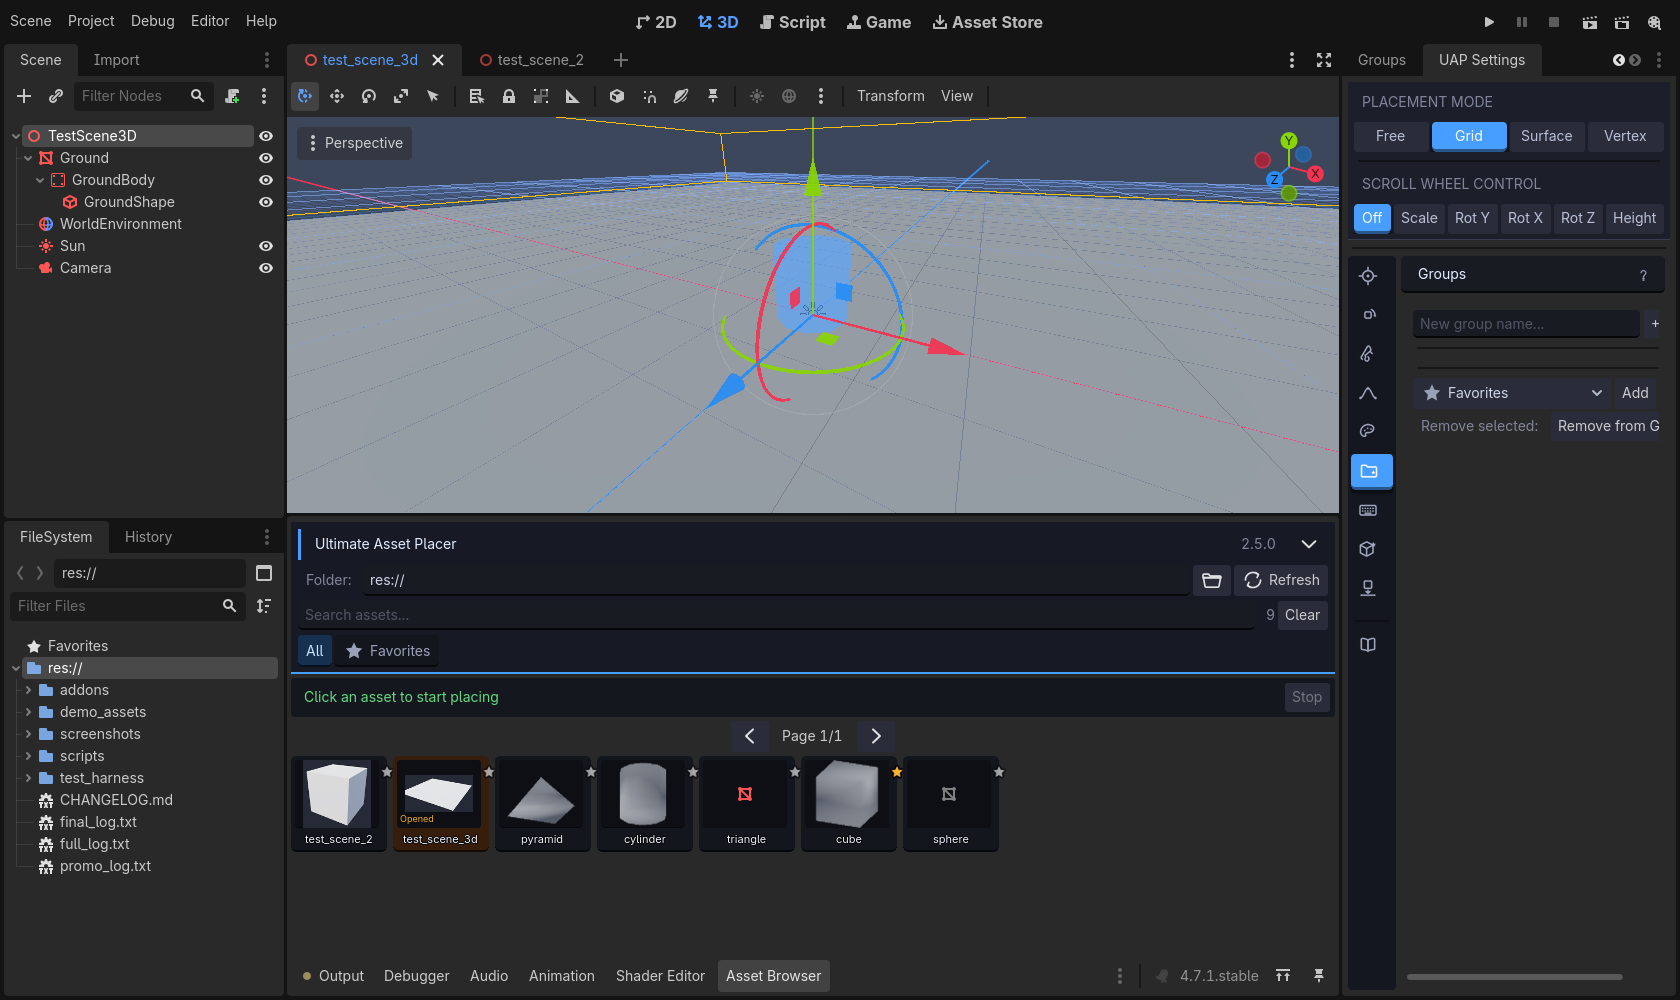
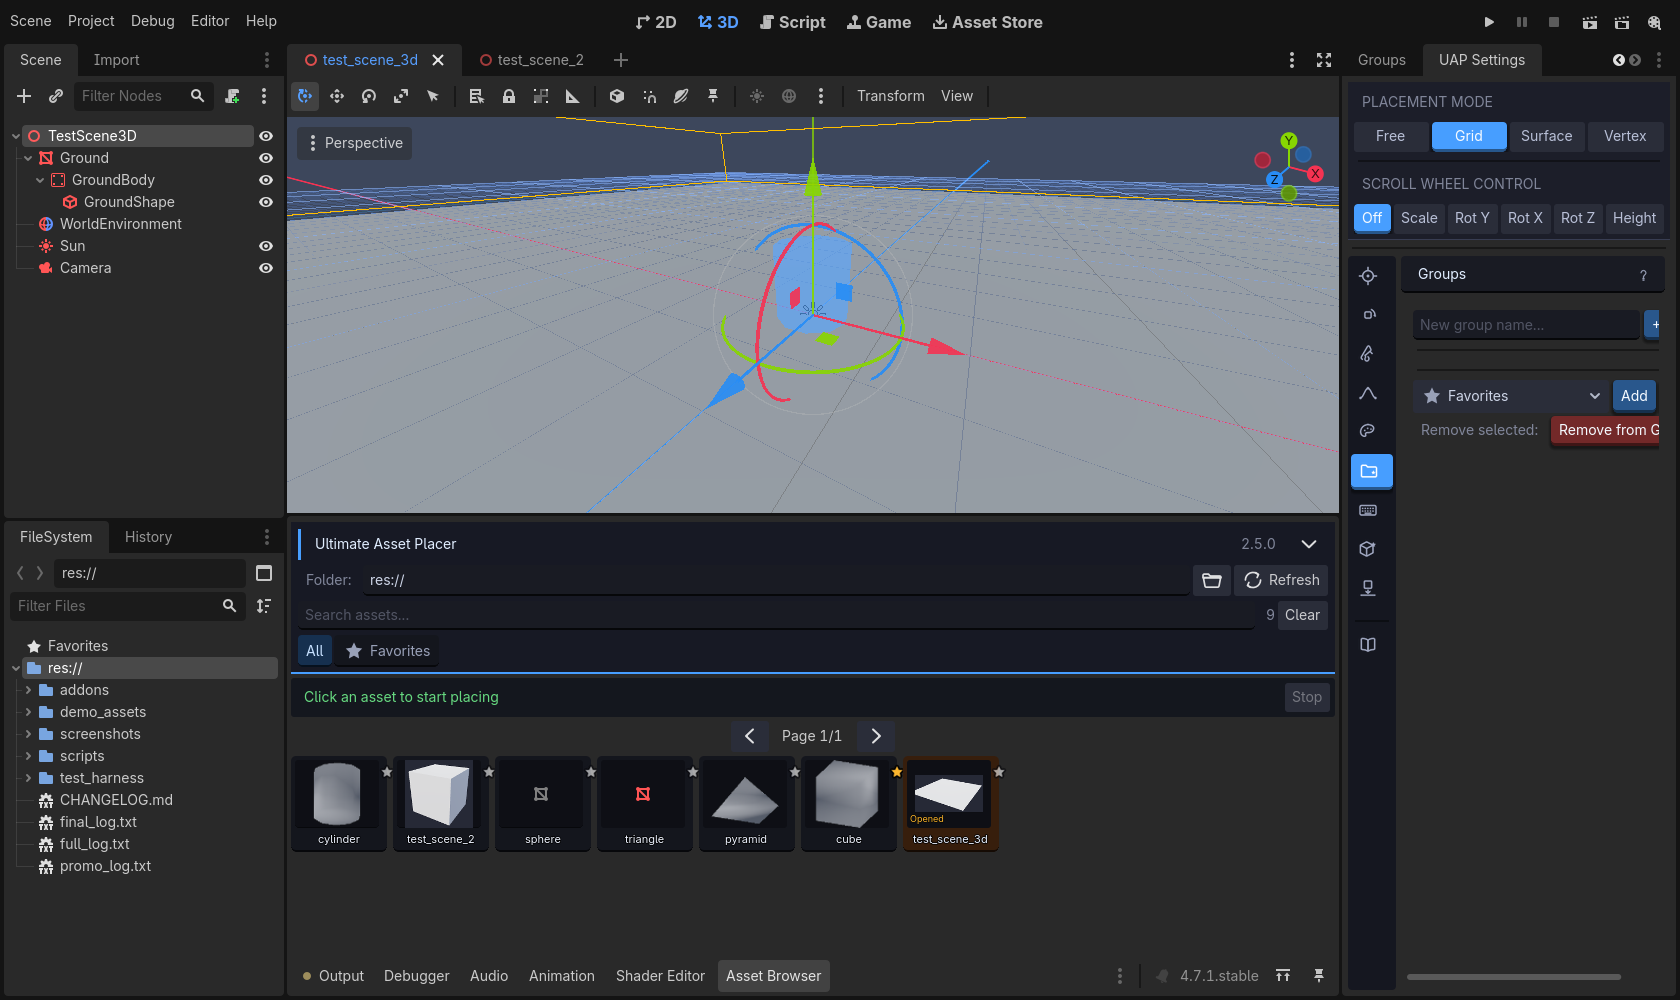
Ultimate Asset Placer v2.5.0 rev 3 — raised 3D faces scoped to standalone panel actions only; in-group buttons restored to idle; Create New Spline pulled out of the group above Exit Spline Mode; Groups-tab action cluster raised (+ Add / Add / folder / Remove from Group); README/CHANGELOG + fresh scr

diff --git a/README.md b/README.md
@@ -55,23 +55,29 @@ drag-and-drop / auto-shape hints) are gone — every tab has the **(i)** help
 button and the Docs window now, so the controls moved back up where you can
 reach them.
 
-### Every action button now reads as a button
-Start Physics was only the first fix. **Every standalone action button** —
-Create New Spline, Use Selected Spline, Smooth, Sharpen, Drop to Ground, Wrap
-Points to Terrain, the bake buttons, Lift Selected Up, Reset X Y Z, Reset All
-to Defaults, Create Asset Zoo, the MultiMesh tools… — now wears a **raised 3D
-face** so nothing melts into the panel anymore. One face color per meaning:
-steel blue for standard actions, dark red for destructive ones (Delete Active
-Spline, Clear All MultiMesh Instances), dark green for the finalize bake, and
-amber for Stop while a simulation runs.
+### Standalone action buttons now read as buttons
+The button fix now follows one precise rule: a button wears the **raised 3D
+face** only when it sits **directly on the panel** — not inside any group
+section — and would otherwise melt into the background. That covers Start
+Physics (and its Stop / Cancel companions), **+ Create New Spline**, Exit
+Spline Mode, Reset All to Defaults, and the Groups-tab action cluster:
+**+ Add**, **Add**, the folder-import button, and **Remove from Group**,
+which now carries a dark-red destructive face with white text. Steel blue is
+the standard action color, dark red marks destructive actions, and amber
+marks Stop while a simulation runs.
 
-On the Spline tab the buttons were also reordered: **+ Create New Spline now
-sits above Exit Spline Mode** (exit used to be the very first control at the
-top of the tab, which read backwards).
+**Buttons inside a group section keep the quiet idle look** — Use Selected
+Spline, Smooth / Sharpen, the terrain tools, the bake buttons, Lift Selected
+Up, Reset X Y Z, Create Asset Zoo, the MultiMesh tools — so a raised face
+always means "a real panel-level action", not just decoration.
 
-![Physics tab with raised action buttons](screenshots/physics_tab.png)
+On the Spline tab **+ Create New Spline was pulled out of the group** and now
+sits directly **above Exit Spline Mode** — and neither button lives inside the
+"1. Spline Node Setup" section.
 
-![Spline tab with raised action buttons](screenshots/spline_tab.png)
+![Physics tab with the raised Start Physics action](screenshots/physics_tab.png)
+
+![Spline tab with Create New Spline above Exit Spline Mode](screenshots/spline_tab.png)
 
 ### Silent by default
 The `[Ultimate Asset Placer] Theme pass dressed …` debug lines that were

diff --git a/CHANGELOG.md b/CHANGELOG.md
@@ -84,6 +84,31 @@ to be the very first control at the top of the tab — above the setup section
 that contains the Create button — which read backwards. Exit now lives
 directly below the Create/Use row inside "1. Spline Node Setup".
 
+### Raised faces scoped to standalone actions only (2.5.0 rev 3)
+The rev-2 pass over-applied the treatment — buttons INSIDE group sections
+were raised too, which read wrong. The rule is now precise, and the user's
+decision was respected everywhere:
+- **Raised 3D face → only buttons sitting directly on the panel** (not inside
+  any group section, and previously melting into it): Start Physics, Stop and
+  Cancel, **+ Create New Spline**, Exit Spline Mode, Reset All to Defaults,
+  and the Groups-tab action cluster — **+ Add**, **Add**, the folder-import
+  button, and **Remove from Group** (now a dark-red destructive face with
+  white text instead of the dim red label).
+- **Idle dark face again → every button inside a group section**: Use
+  Selected Spline, Smooth / Sharpen, Delete Active Spline (its dim red label
+  is back), Drop to Ground / Wrap / Subdivide & Wrap, + Scatter / + Deform,
+  BAKE TO NODES (green label restored), BAKE TO MULTIMESH (blue label
+  restored), Remove Layer, Lift Selected Up, Reset X Y Z, Create Asset Zoo,
+  Clear All MultiMesh Instances / Generate Instance Collision / Commit
+  MultiMesh.
+- **Spline tab layout per the user's instruction:** + Create New Spline was
+  pulled OUT of the group and sits directly ABOVE Exit Spline Mode; neither
+  button lives inside "1. Spline Node Setup".
+- The unused green face constant was removed; the audit harness now asserts
+  both directions (10 raised buttons must match their face colors, 17
+  in-group buttons must be idle) and that neither spline button is inside
+  the section.
+
 ### Silent by default
 - The `[Ultimate Asset Placer] Theme pass dressed N buttons…` debug prints
   (a 2.3 leftover) are removed. The counters are kept internally for the test
